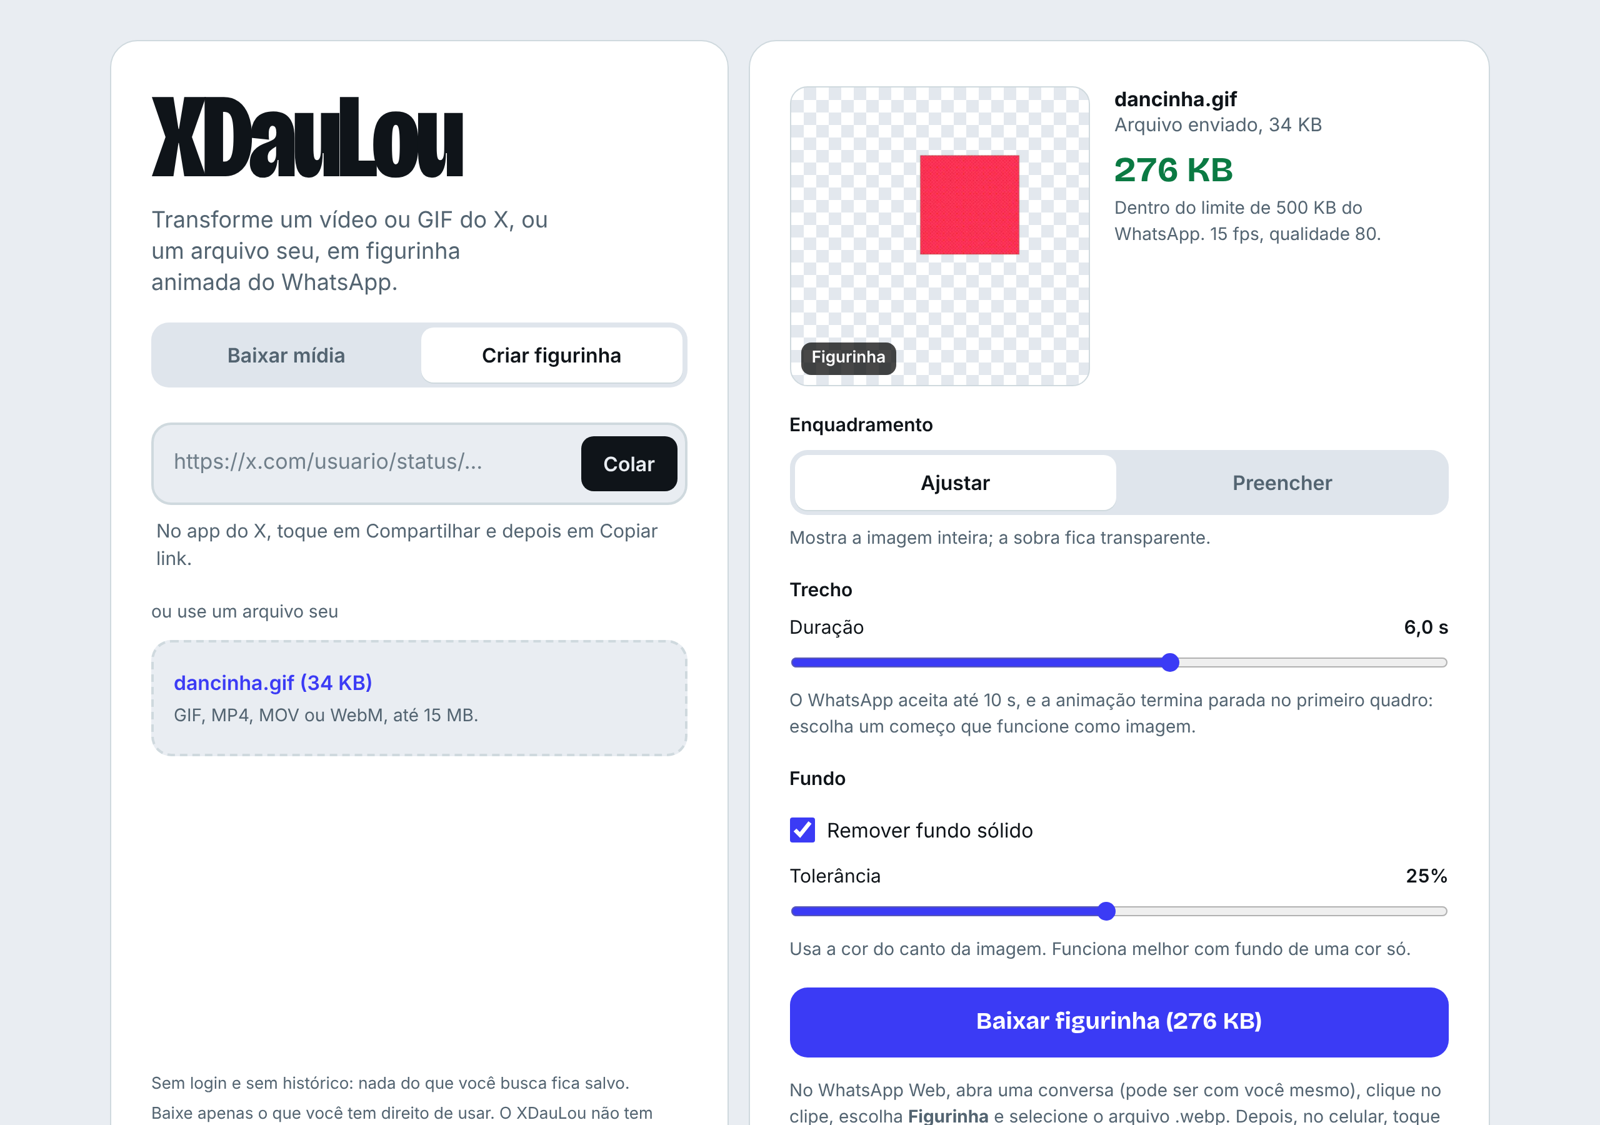
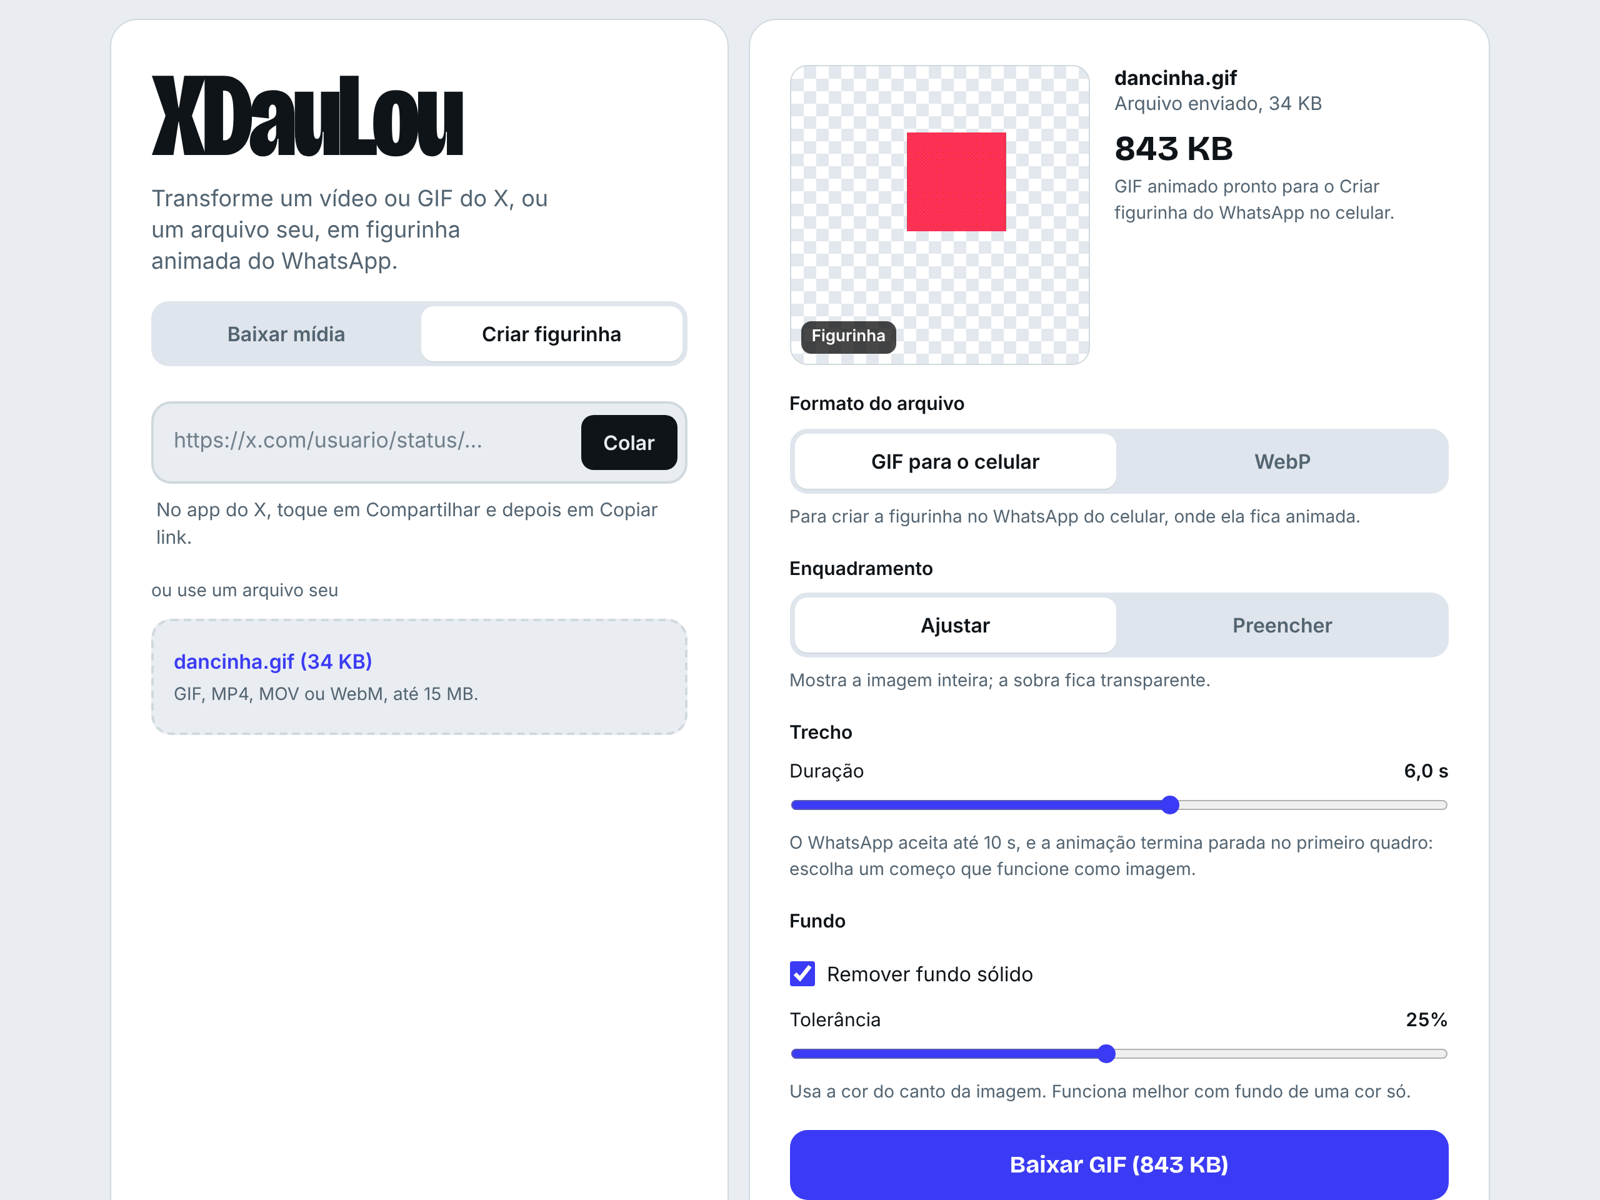
Figurinha em GIF para o celular
O WhatsApp Web/Desktop sempre cria figurinhas paradas, mesmo a partir de
GIF ou WebP animado. O caminho que mantém a animação é o "Criar
figurinha" do WhatsApp no celular, a partir de um GIF da galeria.

O estúdio agora gera um GIF 512x512 (mesmo enquadramento, trecho e
transparência) como formato padrão, mantendo o WebP para apps de
pacotes. Instruções corrigidas na interface e no README.

Claude-Session: https://claude.ai/code/session_01NCyaUMFTHhJLJgAGtnpsDu

diff --git a/public/js/studio.js b/public/js/studio.js
@@ -6,7 +6,24 @@ import { $, apiError, escapeHtml, formatBytes, formatSeconds, saveBlob } from '.
 const MAX_SECONDS = 10;
 const DEFAULT_SECONDS = 6;
 
-const defaultOptions = () => ({ fit: 'contain', start: 0, duration: DEFAULT_SECONDS, removeBg: false, tolerance: 0.25 });
+// GIF é o padrão: no WhatsApp do celular, "Criar figurinha" com um GIF é o caminho
+// que mantém a animação. No WhatsApp Web/Desktop a figurinha sempre fica parada.
+const defaultOptions = () => ({ format: 'gif', fit: 'contain', start: 0, duration: DEFAULT_SECONDS, removeBg: false, tolerance: 0.25 });
+
+const FORMAT_NOTE = {
+  gif: 'Para criar a figurinha no WhatsApp do celular, onde ela fica animada.',
+  webp: 'Formato final de figurinha, para apps de pacotes no Android. No WhatsApp Web e no Desktop, figurinhas criadas no computador ficam paradas.',
+};
+
+const HOWTO = {
+  gif: `<strong>Como usar:</strong> coloque o GIF na galeria do celular (abrindo esta página no celular, toque e segure a prévia e escolha
+    salvar ou adicionar às Fotos). No WhatsApp do celular, abra uma conversa, toque em figurinhas, depois em <strong>Criar figurinha</strong>,
+    e escolha o GIF. Depois de enviar, toque nela e favorite.`,
+  webp: `<strong>Como usar:</strong> importe o .webp num app de pacotes de figurinhas no Android (o WhatsApp exige pelo menos 3 por pacote).
+    Pelo computador o WhatsApp só cria figurinhas paradas.`,
+};
+
+const fileName = (source, format) => source.filename.replace(/\.webp$/, `.${format}`);
 
 /** Menor variante que ainda cobre 512 px no lado menor (baixa menos e não perde nitidez). */
 function variantForSticker(media) {
@@ -130,7 +147,11 @@ export function createStudio({ root, getFeatures }) {
   function resultHtml() {
     const r = st.result;
     if (!r) {
-      return '<p class="note" id="st-status">A figurinha sai em 512 × 512 px, com fundo transparente, até 10 s e menos de 500 KB.</p>';
+      return '<p class="note" id="st-status">Sai em 512 × 512 px, com fundo transparente e até 10 s.</p>';
+    }
+    if (r.format === 'gif') {
+      return `<p class="sticker-size">${formatBytes(r.bytes)}</p>
+        <p class="note" id="st-status">${st.stale ? 'As opções mudaram. Gere de novo para atualizar.' : 'GIF animado pronto para o Criar figurinha do WhatsApp no celular.'}</p>`;
     }
     const limit = r.animated ? 500 : 100;
     const ok = r.bytes <= limit * 1024;
@@ -177,6 +198,14 @@ export function createStudio({ root, getFeatures }) {
   function optionsHtml() {
     const o = st.options;
     return `<fieldset class="group">
+        <legend>Formato do arquivo</legend>
+        <div class="segmented">
+          <label><input type="radio" name="st-format" value="gif" ${o.format === 'gif' ? 'checked' : ''}>GIF para o celular</label>
+          <label><input type="radio" name="st-format" value="webp" ${o.format === 'webp' ? 'checked' : ''}>WebP</label>
+        </div>
+        <p class="note" id="st-format-note">${FORMAT_NOTE[o.format]}</p>
+      </fieldset>
+      <fieldset class="group">
         <legend>Enquadramento</legend>
         <div class="segmented">
           <label><input type="radio" name="st-fit" value="contain" ${o.fit === 'contain' ? 'checked' : ''}>Ajustar</label>
@@ -215,8 +244,7 @@ export function createStudio({ root, getFeatures }) {
         ${optionsHtml()}
         <p class="inline-error" id="st-error" role="alert" ${st.error ? '' : 'hidden'}>${escapeHtml(st.error ?? '')}</p>
         <button type="button" class="download" id="st-action"></button>
-        <p class="note howto">No WhatsApp Web, abra uma conversa (pode ser com você mesmo), clique no clipe, escolha
-          <strong>Figurinha</strong> e selecione o arquivo .webp. Depois, no celular, toque na figurinha e favorite.</p>
+        <p class="note howto" id="st-howto">${HOWTO[st.options.format]}</p>
       </article>`;
     refresh();
   }
@@ -237,7 +265,8 @@ export function createStudio({ root, getFeatures }) {
       btn.removeAttribute('aria-busy');
       btn.classList.remove('is-indeterminate');
       btn.dataset.action = fresh ? 'st-download' : 'st-generate';
-      btn.textContent = fresh ? `Baixar figurinha (${formatBytes(st.result.bytes)})` : st.result ? 'Gerar de novo' : 'Gerar figurinha';
+      const label = st.result?.format === 'gif' ? 'Baixar GIF' : 'Baixar figurinha';
+      btn.textContent = fresh ? `${label} (${formatBytes(st.result.bytes)})` : st.result ? 'Gerar de novo' : 'Gerar figurinha';
     }
     const status = $('#st-status', root);
     if (status && st.result && st.stale) status.textContent = 'As opções mudaram. Gere de novo para atualizar.';
@@ -261,6 +290,7 @@ export function createStudio({ root, getFeatures }) {
     }
 
     const qs = new URLSearchParams({
+      format: o.format,
       fit: o.fit,
       start: String(o.start),
       duration: String(Math.min(o.duration, maxDuration())),
@@ -293,6 +323,7 @@ export function createStudio({ root, getFeatures }) {
         fps: res.headers.get('X-Sticker-Fps'),
         quality: res.headers.get('X-Sticker-Quality'),
         animated: res.headers.get('X-Sticker-Animated') !== '0',
+        format: res.headers.get('X-Sticker-Format') === 'gif' ? 'gif' : 'webp',
       };
       st.busy = null;
       render();
@@ -309,9 +340,10 @@ export function createStudio({ root, getFeatures }) {
 
   function download() {
     if (!st.result) return;
-    saveBlob(st.result.blob, st.source.filename);
+    const name = fileName(st.source, st.result.format);
+    saveBlob(st.result.blob, name);
     const status = $('#st-status', root);
-    if (status) status.textContent = `Download concluído: ${st.source.filename}`;
+    if (status) status.textContent = `Download concluído: ${name}`;
   }
 
   function markStale() {
@@ -346,6 +378,10 @@ export function createStudio({ root, getFeatures }) {
       o.fit = el.value;
       $('#st-fit-note', root).textContent =
         o.fit === 'contain' ? 'Mostra a imagem inteira; a sobra fica transparente.' : 'Ocupa o quadrado inteiro, cortando as bordas.';
+    } else if (el.name === 'st-format') {
+      o.format = el.value;
+      $('#st-format-note', root).textContent = FORMAT_NOTE[o.format];
+      $('#st-howto', root).innerHTML = HOWTO[o.format];
     } else if (el.name === 'st-removebg') {
       o.removeBg = el.checked;
       $('#st-tolerance-wrap', root).hidden = !o.removeBg;

diff --git a/server/sticker.js b/server/sticker.js
@@ -24,6 +24,15 @@ export const LEVELS = [
   { fps: 10, inner: 448 },
   { fps: 8, inner: 400 },
 ];
+// GIF para o "Criar figurinha" do WhatsApp no celular: é o único caminho que
+// mantém a figurinha animada (no WhatsApp Web/Desktop ela sempre fica parada).
+export const GIF_LEVELS = [
+  { fps: 15, inner: 512 },
+  { fps: 12, inner: 512 },
+  { fps: 10, inner: 448 },
+  { fps: 10, inner: 384 },
+  { fps: 8, inner: 320 },
+];
 const Q_MAX = 80;
 const Q_MIN = 30;
 // No teste com vídeo detalhado, q=30 rendeu ~62% do tamanho de q=80.
@@ -43,6 +52,7 @@ export function parseOptions(q = {}) {
     fit: q.fit === 'cover' ? 'cover' : 'contain',
     removeBg: q.removeBg === '1' || q.removeBg === 'true',
     tolerance: clamp(num(q.tolerance, 0.25), 0.01, 0.6),
+    format: q.format === 'gif' ? 'gif' : 'webp',
   };
 }
 
@@ -56,7 +66,7 @@ export function detectFormat(buf) {
   return null;
 }
 
-export function stickerFilter({ fps, inner, fit, key, tolerance }) {
+export function stickerFilter({ fps, inner, fit, key, tolerance, canvas }) {
   const chain = [`fps=${fps}`, 'format=rgba'];
   if (key) chain.push(`colorkey=0x${key}:${tolerance}:0.08`);
   if (fit === 'cover') {
@@ -65,8 +75,18 @@ export function stickerFilter({ fps, inner, fit, key, tolerance }) {
     chain.push(`scale=${inner}:${inner}:force_original_aspect_ratio=decrease:flags=lanczos`);
   }
   // Sobra preenchida com transparência total: nada de borda branca.
-  chain.push(`pad=${CANVAS}:${CANVAS}:(ow-iw)/2:(oh-ih)/2:color=0x00000000`);
+  const size = canvas ?? CANVAS;
+  chain.push(`pad=${size}:${size}:(ow-iw)/2:(oh-ih)/2:color=0x00000000`);
   return chain.join(',');
+}
+
+/** Mesmo enquadramento da figurinha, mas em GIF com paleta otimizada e transparência. */
+export function stickerGifFilter(opts) {
+  return (
+    `${stickerFilter({ ...opts, canvas: opts.inner })},split[a][b];` +
+    '[a]palettegen=reserve_transparent=1:stats_mode=diff:max_colors=255[p];' +
+    '[b][p]paletteuse=alpha_threshold=128:dither=bayer:bayer_scale=4:diff_mode=rectangle'
+  );
 }
 
 /** Argumentos de entrada: GIF não tem busca rápida, então o corte vai depois do -i. */
@@ -154,10 +174,38 @@ export function createStickerService({ ffmpegPath, webpSupported, fetchImpl, tim
   const available = Boolean(ffmpegPath && webpSupported);
   const target = sticker.targetKb * 1024;
 
+  /** GIF: desce degraus (fps e tamanho) até caber em gifMaxMb. */
+  async function encodeGif({ input, format, options, signal, key, tmp }) {
+    const limit = sticker.gifMaxMb * 1024 * 1024;
+    let last;
+    for (const [n, level] of GIF_LEVELS.entries()) {
+      const out = tmp.file(`out-${n}.gif`);
+      await runFfmpeg(
+        ffmpegPath,
+        [
+          '-hide_banner', '-loglevel', 'error', '-nostdin', '-y',
+          ...inputArgs(input, format, options),
+          '-an',
+          '-filter_complex', stickerGifFilter({ ...level, fit: options.fit, key, tolerance: options.tolerance }),
+          '-loop', '0',
+          '-fs', String(limit * 3),
+          out,
+        ],
+        { timeoutMs: sticker.timeoutMs, signal },
+      );
+      const size = (await stat(out)).size;
+      last = { out, size, best: { ...level, q: null }, attempts: n + 1 };
+      if (size <= limit) break;
+    }
+    if (last.size > limit) throw new AppError('STICKER_TOO_LARGE');
+    return { buffer: await readFile(last.out), best: last.best, attempts: last.attempts, animated: true };
+  }
+
   async function encode({ input, format, options, signal }) {
     const tmp = await makeTempDir();
     try {
       const key = options.removeBg ? await cornerColor(ffmpegPath, input, format, options, signal) : null;
+      if (options.format === 'gif') return await encodeGif({ input, format, options, signal, key, tmp });
       const outputs = [];
       const attempt = async (level, q) => {
         const out = tmp.file(`out-${outputs.length}.webp`);
@@ -248,12 +296,14 @@ export function createStickerService({ ffmpegPath, webpSupported, fetchImpl, tim
         }
 
         res.status(200);
-        res.setHeader('Content-Type', 'image/webp');
+        const ext = options.format === 'gif' ? 'gif' : 'webp';
+        res.setHeader('Content-Type', `image/${ext}`);
         res.setHeader('Content-Length', String(result.buffer.length));
-        res.setHeader('Content-Disposition', attachment(safeFilename(req.query.name, 'webp')));
+        res.setHeader('Content-Disposition', attachment(safeFilename(req.query.name, ext)));
+        res.setHeader('X-Sticker-Format', ext);
         res.setHeader('Cache-Control', 'no-store');
         res.setHeader('X-Sticker-Fps', String(result.best.fps));
-        res.setHeader('X-Sticker-Quality', String(result.best.q));
+        res.setHeader('X-Sticker-Quality', String(result.best.q ?? ''));
         res.setHeader('X-Sticker-Inner', String(result.best.inner));
         res.setHeader('X-Sticker-Attempts', String(result.attempts));
         res.setHeader('X-Sticker-Animated', result.animated ? '1' : '0');

diff --git a/test/sticker.test.js b/test/sticker.test.js
@@ -1,6 +1,6 @@
 import assert from 'node:assert/strict';
 import { spawnSync } from 'node:child_process';
-import { mkdtempSync, readFileSync } from 'node:fs';
+import { mkdtempSync, readFileSync, writeFileSync } from 'node:fs';
 import { tmpdir } from 'node:os';
 import { join } from 'node:path';
 import { after, before, test } from 'node:test';
@@ -132,7 +132,8 @@ const upload = (file, query = '', type = 'image/gif') =>
 
 test('opções são limitadas aos valores permitidos', () => {
   const o = parseOptions({ start: '-5', duration: '99', fit: 'x', removeBg: '1', tolerance: '9' });
-  assert.deepEqual(o, { start: 0, duration: 10, fit: 'contain', removeBg: true, tolerance: 0.6 });
+  assert.deepEqual(o, { start: 0, duration: 10, fit: 'contain', removeBg: true, tolerance: 0.6, format: 'webp' });
+  assert.equal(parseOptions({ format: 'gif' }).format, 'gif');
   assert.equal(parseOptions({ fit: 'cover' }).fit, 'cover');
 });
 
@@ -194,6 +195,30 @@ test('GIF enviado vira figurinha válida para o WhatsApp', { skip }, async () =>
   assert.equal(info.loop, 0, 'loop infinito');
   assert.ok(info.alphaFlag && info.alphaFrames > 0, 'com canal alfa');
   assert.ok(buf.length < 500 * 1024);
+});
+
+test('formato GIF (para o "Criar figurinha" do celular): 512×512, animado e com transparência', { skip }, async () => {
+  const res = await upload(clips.gif, 'format=gif&name=teste');
+  assert.equal(res.status, 200, await res.clone().text());
+  assert.equal(res.headers.get('content-type'), 'image/gif');
+  assert.equal(res.headers.get('x-sticker-format'), 'gif');
+  assert.equal(res.headers.get('content-disposition'), 'attachment; filename="teste.gif"');
+  const buf = Buffer.from(await res.arrayBuffer());
+  assert.equal(buf.subarray(0, 6).toString('latin1'), 'GIF89a');
+  assert.equal(buf.readUInt16LE(6), 512);
+  assert.equal(buf.readUInt16LE(8), 512);
+
+  const dir = mkdtempSync(join(tmpdir(), 'xdaulou-gif-'));
+  const file = join(dir, 'out.gif');
+  writeFileSync(file, buf);
+  // framecrc imprime uma linha por quadro decodificado.
+  const crc = spawnSync(ffmpegPath, ['-v', 'error', '-i', file, '-f', 'framecrc', '-'], { encoding: 'utf8' });
+  assert.equal(crc.status, 0);
+  const frames = crc.stdout.split('\n').filter((l) => l && !l.startsWith('#')).length;
+  assert.ok(frames > 1, `quadros: ${frames}`);
+  const rgba = firstFrameRgba(file, 'format=rgba');
+  assert.equal(pixel(rgba, 0, 0)[3], 0, 'canto transparente');
+  assert.equal(pixel(rgba, 256, 256)[3], 255, 'centro opaco');
 });
 
 test('GIF parado vira figurinha estática abaixo de 100 KB', { skip, timeout: 60_000 }, async () => {

diff --git a/server/config.js b/server/config.js
@@ -39,6 +39,7 @@ export function loadConfig(overrides = {}) {
     maxConcurrentJobs: int('MAX_CONCURRENT_JOBS', int('GIF_MAX_CONCURRENT', 2)),
     sticker: {
       targetKb: Math.min(int('STICKER_TARGET_KB', 480), 500),
+      gifMaxMb: int('STICKER_GIF_MAX_MB', 4),
       maxInputMb: int('STICKER_MAX_INPUT_MB', 80),
       maxUploadMb: int('STICKER_MAX_UPLOAD_MB', 15),
       timeoutMs: int('STICKER_TIMEOUT_MS', 60_000),

diff --git a/server/proxy.js b/server/proxy.js
@@ -14,7 +14,7 @@ export function safeFilename(name, ext) {
   let base = String(name ?? '')
     .normalize('NFKD')
     .replace(/[̀-ͯ]/g, '')
-    .replace(/\.(mp4|gif)$/i, '')
+    .replace(/\.(mp4|gif|webp)$/i, '')
     .replace(/[^\w.-]+/g, '_')
     .replace(/_+/g, '_')
     .replace(/^[._-]+|[._-]+$/g, '')

diff --git a/README.md b/README.md
@@ -25,7 +25,7 @@
 - **Posts com vários vídeos.** Seletor de mídia; links `/video/2` já abrem a segunda.
 - **Post citado.** Se o post só cita outro post com vídeo, oferece o vídeo citado.
 - **Mobile-first, tema claro e escuro** seguindo o sistema operacional.
-- **Figurinhas do WhatsApp.** No modo *Criar figurinha*, a mídia de um post (ou um GIF/vídeo seu) vira WebP animado 512×512 com fundo transparente, até 10 s e abaixo de 500 KB. Veja [Figurinhas](#figurinhas-do-whatsapp).
+- **Figurinhas do WhatsApp.** No modo *Criar figurinha*, a mídia de um post (ou um GIF/vídeo seu) vira um GIF 512×512 pronto para o *Criar figurinha* do WhatsApp no celular, ou um WebP animado no formato final de figurinha. Veja [Figurinhas](#figurinhas-do-whatsapp).
 - **Compartilhar direto para o app** (Android, quando instalado como PWA) ou abrir `/?url=<link>`.
 
 ## Figurinhas do WhatsApp
@@ -34,13 +34,24 @@ Escolha **Criar figurinha** no card da esquerda (ou toque em *Transformar em fig
 
 | Opção | O que faz |
 |---|---|
+| Formato | **GIF para o celular** (padrão) ou **WebP** (formato final de figurinha) |
 | Enquadramento | **Ajustar** mostra a imagem inteira e deixa a sobra transparente; **Preencher** ocupa o quadrado cortando as bordas |
 | Trecho | Começo e duração (até 10 s). O WhatsApp encerra a animação no primeiro quadro, então vale escolher um começo que funcione como imagem |
 | Remover fundo sólido | Torna transparente a cor do canto da imagem, com tolerância ajustável |
 
-O resultado segue as regras do WhatsApp para figurinhas animadas: WebP 512×512, transparência real (nunca borda branca), loop infinito, até 10 s e no máximo 500 KB. Se o primeiro resultado passar do limite, o servidor comprime sozinho, nesta ordem: reduz a qualidade (de 80 até 30), depois os quadros por segundo (15 → 12 → 10 → 8) e por fim a escala dentro da tela de 512 px. Um conteúdo parado (todos os quadros iguais) vira figurinha estática, que tem limite de 100 KB, e o servidor também respeita isso.
+### Como colocar no WhatsApp
 
-Para usar: no WhatsApp Web, abra uma conversa (pode ser com você mesmo), clique no clipe › **Figurinha** e escolha o `.webp`. No celular, toque na figurinha recebida e favorite.
+O WhatsApp só cria figurinhas **animadas** pelo celular. No WhatsApp Web e no Desktop, toda figurinha criada no computador fica parada, mesmo a partir de um GIF ou WebP animado (anexando, arrastando ou usando o criador de figurinhas).
+
+1. Gere no formato **GIF para o celular** e coloque o GIF na galeria do celular. O jeito mais simples é abrir o XDauLou no próprio celular (na mesma rede Wi-Fi, use `http://<IP-do-computador>:3000`), gerar, tocar e segurar a prévia e escolher salvar ou *Adicionar às Fotos*.
+2. No WhatsApp do celular, abra uma conversa, toque no ícone de figurinhas › **Criar figurinha** e escolha o GIF. Ela continua animada.
+3. Envie, toque na figurinha e favorite.
+
+O **WebP** sai no formato final das figurinhas, para importar em apps de pacotes no Android (o WhatsApp exige pelo menos 3 figurinhas por pacote).
+
+### Regras técnicas
+
+O WebP segue as regras do WhatsApp para figurinhas animadas: 512×512, transparência real (nunca borda branca), loop infinito, até 10 s e no máximo 500 KB. Se o primeiro resultado passar do limite, o servidor comprime sozinho, nesta ordem: reduz a qualidade (de 80 até 30), depois os quadros por segundo (15 → 12 → 10 → 8) e por fim a escala dentro da tela de 512 px. Um conteúdo parado (todos os quadros iguais) vira figurinha estática, que tem limite de 100 KB, e o servidor também respeita isso. O GIF usa paleta otimizada com transparência e fica abaixo de 4 MB, reduzindo fps e tamanho se preciso.
 
 ## Privacidade
 
@@ -114,7 +125,8 @@ Copie `.env.example` para `.env`. Todas as variáveis são opcionais.
 | `GIF_MAX_OUTPUT_MB` | `40` | Tamanho máximo do GIF gerado |
 | `MAX_CONCURRENT_JOBS` | `2` | Conversões simultâneas (GIF e figurinha somados) |
 | `STICKER_MAX_UPLOAD_MB` | `15` | Tamanho máximo do arquivo enviado para virar figurinha |
-| `STICKER_TARGET_KB` | `480` | Meta de tamanho da figurinha (o limite do WhatsApp é 500) |
+| `STICKER_TARGET_KB` | `480` | Meta de tamanho da figurinha WebP (o limite do WhatsApp é 500) |
+| `STICKER_GIF_MAX_MB` | `4` | Tamanho máximo do GIF de figurinha |
 | `RATE_LIMIT_STICKER` | `10` | Figurinhas por IP por janela |
 | `FFMPEG_PATH` / `YTDLP_PATH` | automático | Caminho dos binários, se não estiverem no PATH |
 
@@ -126,7 +138,7 @@ Copie `.env.example` para `.env`. Todas as variáveis são opcionais.
 | `GET /api/download` | `src`, `exp`, `sig` (da variante), `name` | MP4 como anexo |
 | `GET /api/gif` | `src`, `exp`, `sig`, `q` (`sd` = 480 px, `hd` = 720 px), `name` | GIF como anexo |
 | `GET /api/thumb` | caminho assinado já devolvido em `thumbnail` e `avatar` | Imagem |
-| `POST /api/sticker` | Corpo: `{ src, exp, sig }` (mídia do X) **ou** o arquivo bruto. Query: `fit` (`contain`/`cover`), `start`, `duration`, `removeBg`, `tolerance`, `name` | Figurinha `.webp`, com `X-Sticker-Fps`, `X-Sticker-Quality` e `X-Sticker-Animated` |
+| `POST /api/sticker` | Corpo: `{ src, exp, sig }` (mídia do X) **ou** o arquivo bruto. Query: `format` (`webp`/`gif`), `fit` (`contain`/`cover`), `start`, `duration`, `removeBg`, `tolerance`, `name` | Figurinha `.webp` ou `.gif`, com `X-Sticker-Format`, `X-Sticker-Fps`, `X-Sticker-Quality` e `X-Sticker-Animated` |
 | `GET /api/health` | | Estado do cache, extratores e ffmpeg |
 
 Erros sempre vêm como `{ "error": { "code", "message" } }`, com mensagens em português (`PRIVATE`, `NOT_FOUND`, `NO_MEDIA`, `RATE_LIMITED`…).
@@ -158,7 +170,7 @@ scripts/demo.js         modo demonstração
 npm test
 ```
 
-São 49 testes cobrindo o parser de links, a normalização das respostas do X (vídeo, GIF, conta privada, conteúdo sensível, só fotos, post citado), o cache, o rate limit, os links assinados, os redirecionamentos, a conversão real de MP4 em GIF e as figurinhas (512×512, transparência nas bordas, remoção de fundo, menos de 500 KB num vídeo pesado, corte em 10 s, figurinha estática abaixo de 100 KB e rejeição de arquivos falsos). Eles rodam automaticamente no GitHub Actions a cada push.
+São 50 testes cobrindo o parser de links, a normalização das respostas do X (vídeo, GIF, conta privada, conteúdo sensível, só fotos, post citado), o cache, o rate limit, os links assinados, os redirecionamentos, a conversão real de MP4 em GIF e as figurinhas (512×512, transparência nas bordas, remoção de fundo, menos de 500 KB num vídeo pesado, corte em 10 s, figurinha estática abaixo de 100 KB, GIF animado com transparência e rejeição de arquivos falsos). Eles rodam automaticamente no GitHub Actions a cada push.
 
 ## Publicação
 
